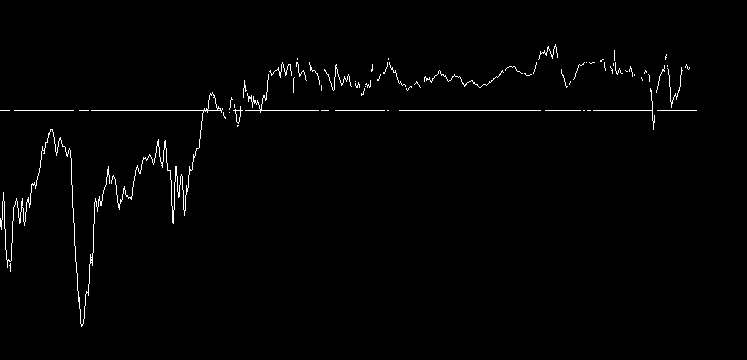
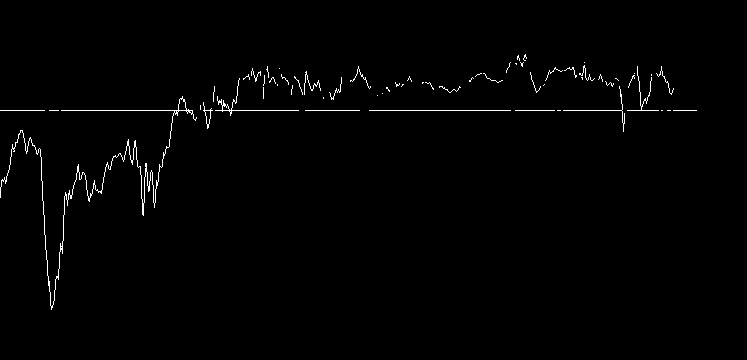
use last about three hours to calculate derivative

diff --git a/img.py b/img.py
@@ -42,10 +42,19 @@ def read(image):
     """
     x_0, x_1 = 1, 40
     y_t0, y_t1 = 370, 390
-    y_b0, y_b1 = 465, 485
+    y_b0, y_b1 = 455, 485
     y_t, y_b = 380, 475
     txt_img0 = np.hstack([image[y_t0:y_t1, x_0:x_1, :]])
     txt_img1 = np.hstack([image[y_b0:y_b1, x_0:x_1, :]])
+    # Uncomment block below to verify the text is completely inside the images.
+    # # === < View y axis text > ===
+    # import matplotlib.pyplot as plt
+    # plt.figure()
+    # plt.imshow(txt_img0)
+    # plt.figure()
+    # plt.imshow(txt_img1)
+    # plt.show()
+    # # === </ View y axis text > ===
     # By default OpenCV stores images in BGR format and since pytesseract assumes RGB format,
     # we need to convert from BGR to RGB format/mode:
     img_rgb0 = cv2.cvtColor(txt_img0, cv2.COLOR_BGR2RGB)
@@ -82,15 +91,15 @@ def find_colour(image):
     # Set the masked pixels to white
     output[output > 0] = 255
 
-    # === < Show figures > ===
-    import matplotlib.pyplot as plt
-    plt.figure()
-    plt.imshow(image)
-    # plt.savefig('before.png', dpi=200)
+    # # === < Show figures > ===
+    # import matplotlib.pyplot as plt
     # plt.figure()
-    # plt.imshow(output)
-    # plt.show()
-    # === </ Show figures > ===
+    # plt.imshow(image)
+    # # plt.savefig('before.png', dpi=200)
+    # # plt.figure()
+    # # plt.imshow(output)
+    # # plt.show()
+    # # === </ Show figures > ===
     # Save the black/white image of the blue structures
     cv2.imwrite('new_im.jpg', np.hstack([output]))
 

diff --git a/image_analysis.py b/image_analysis.py
@@ -74,22 +74,25 @@ def main(scaling):
     x_ = np.linspace(np.min(x_mean), np.max(x_mean), 10000)
     y_i = - np.interp(x_, x_mean, y_mean)
     dy = savgol_filter(y_i, 501, 3, deriv=1)
+    dy = dy[int(len(x_) * .8):]
 
-    # === < Plot the result > ===
-    import matplotlib.pyplot as plt
-    y_ = savgol_filter(y_i, 501, 3)  # window size 501, polynomial order 3
-    # Rescale x-axis to 22-hour plot
-    # TODO: find the exact timespan used in the image
-    x = (x - np.min(x)) / (np.max(x) - np.min(x)) * 22
-    x_ = (x_ - np.min(x_)) / (np.max(x_) - np.min(x_)) * 22
-    plt.figure()
-    plt.plot(x, - y, 'b')
-    plt.plot(x_, y_, 'r')
-    # plt.savefig('after.png', dpi=200)
+    # # === < Plot the result > ===
+    # import matplotlib.pyplot as plt
+    # y_ = savgol_filter(y_i, 501, 3)  # window size 501, polynomial order 3
+    # # Rescale x-axis to 22-hour plot
+    # # TODO: find the exact timespan used in the image
+    # x = (x - np.min(x)) / (np.max(x) - np.min(x)) * 22
+    # x_ = (x_ - np.min(x_)) / (np.max(x_) - np.min(x_)) * 22
     # plt.figure()
-    # plt.plot(x_, dy, 'r')
-    plt.show()
-    # === </ Plot the result > ===
+    # plt.plot(x, - y, 'b')
+    # plt.plot(x_, y_, 'r')
+    # plt.figure()
+    # plt.plot(x_[int(len(x_) * .8):], y_[int(len(x_) * .8):], 'r')
+    # # plt.savefig('after.png', dpi=200)
+    # # plt.figure()
+    # # plt.plot(x_, dy, 'r')
+    # plt.show()
+    # # === </ Plot the result > ===
 
     return np.min(dy)
 
